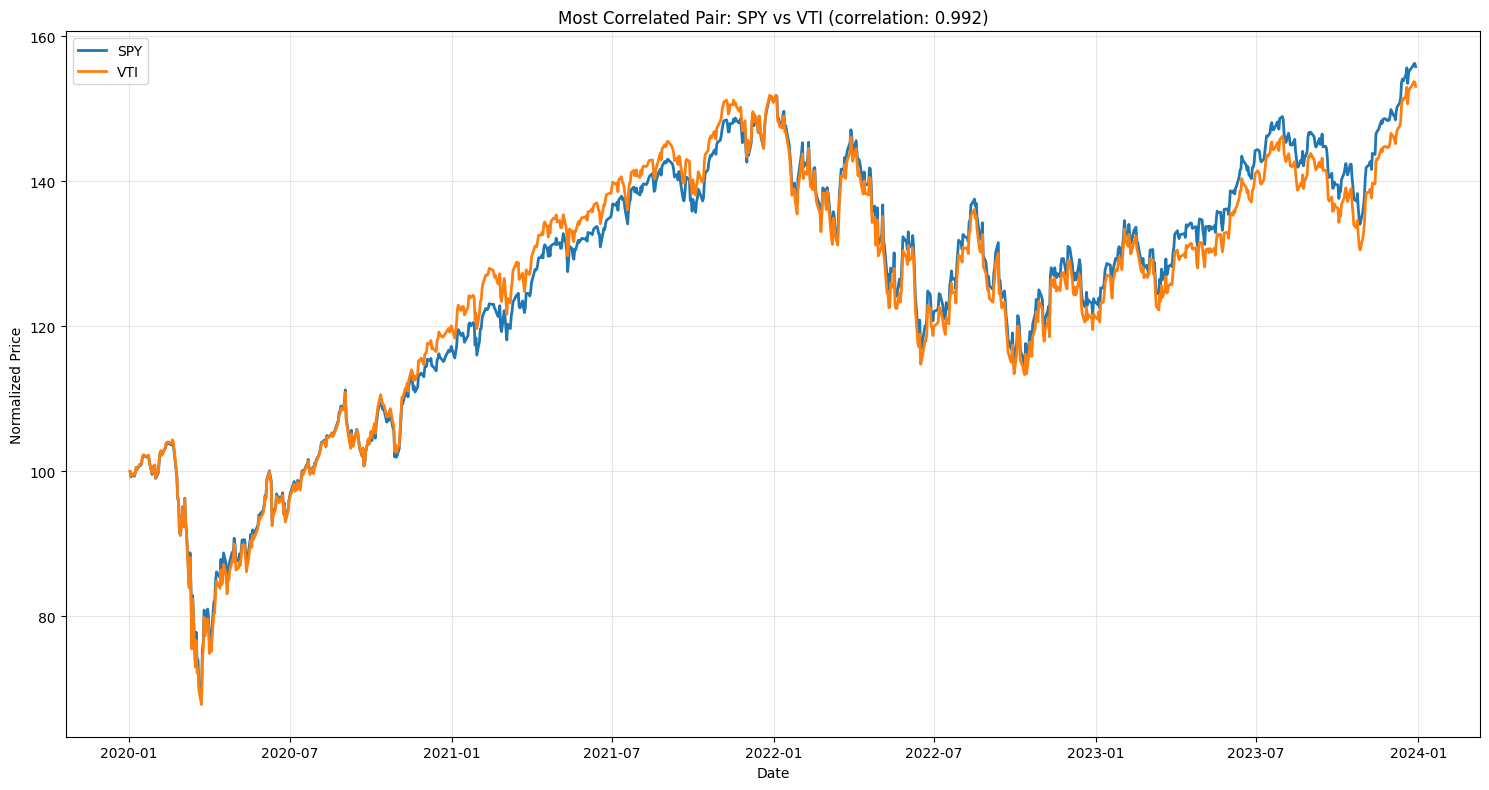
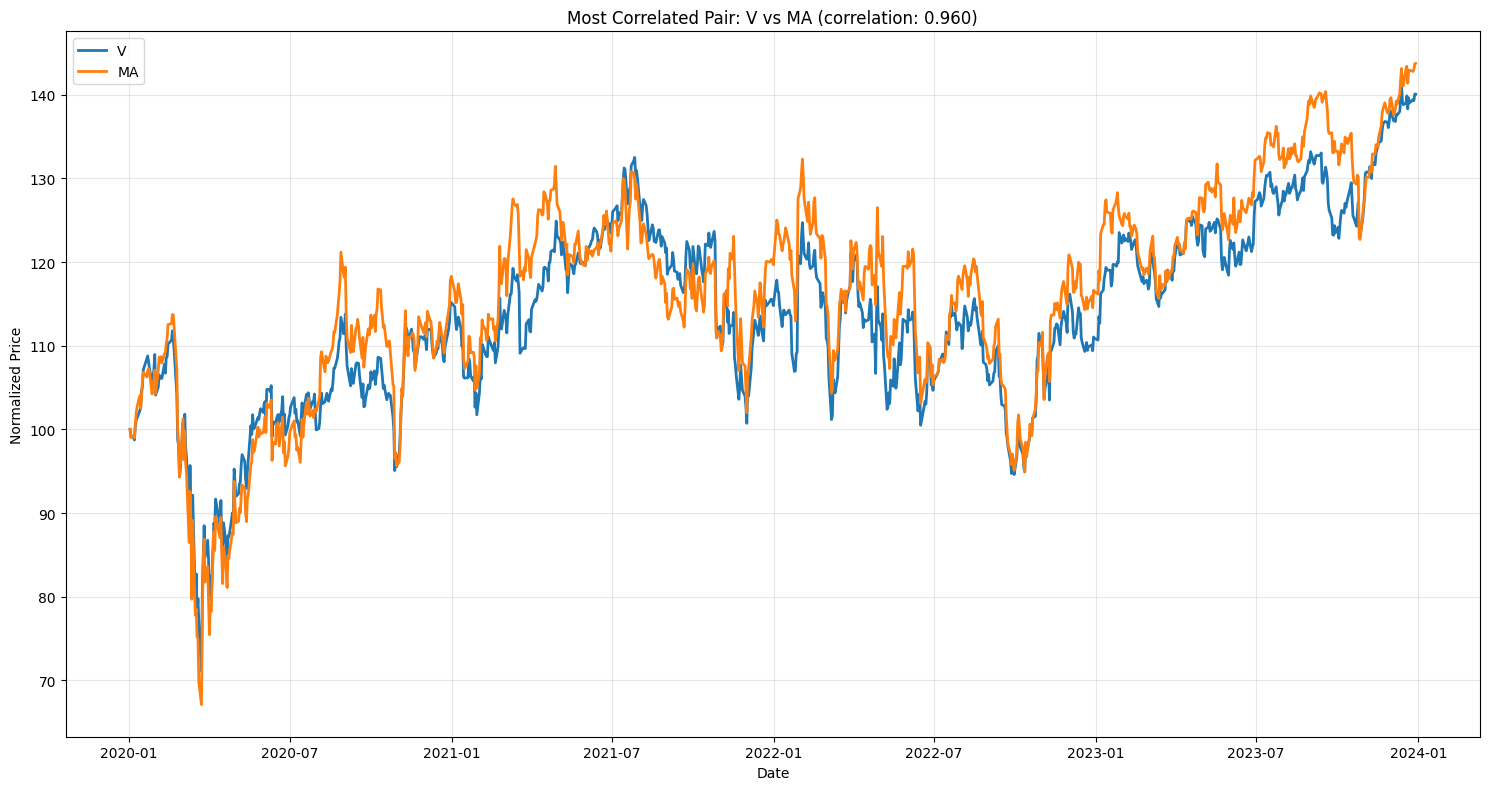
Update README.md: Add information about stocks with high correlation

Changed region(s): [[0.0927, 0.0911, 0.9577, 0.8506], [0.3707, 0.0, 0.6797, 0.0304], [0.0618, 0.0608, 0.0927, 0.0911]]

diff --git a/correlation.py b/correlation.py
@@ -95,7 +95,8 @@ if __name__ == "__main__":
     ]
 
     # stocks_to_compare = etfs + stocks
-    stocks_to_compare = etfs
+    # stocks_to_compare = etfs
+    stocks_to_compare = stocks
 
     start = "2020-01-01"
     end = "2024-01-01"

diff --git a/README.md b/README.md
@@ -70,3 +70,5 @@ ETFs like SPY (S&P 500), QQQ (NASDAQ 100), and VTI (Total Market) show very high
 
 ![ETFs correlation heat map](https://github.com/user-attachments/assets/aeff97a0-f225-4824-a559-492fd349ee8c)
 ![ETFs correlation chart](https://github.com/user-attachments/assets/b63c6c38-1b6a-437c-b1e3-70fb20872eb4)
+
+Some stocks display high correlation with each other. For example, V (Visa) and MA (Mastercard):
